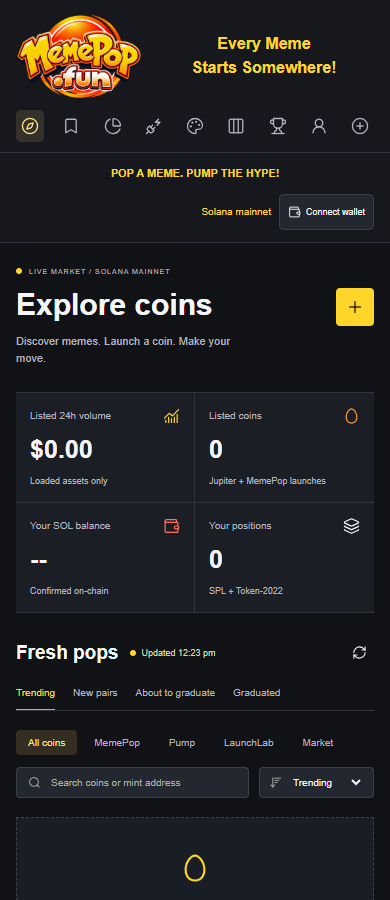
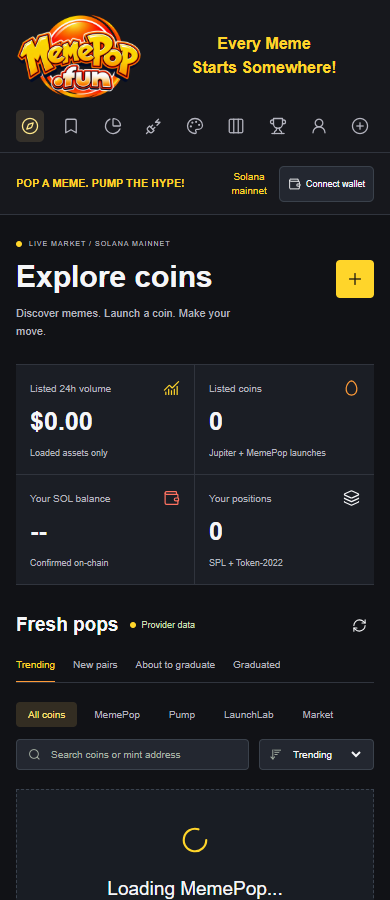
slogan move

diff --git a/src/pump-theme.css b/src/pump-theme.css
@@ -173,8 +173,9 @@
   .brand { width: 126px; flex-shrink: 0; justify-content: flex-start; }
   .brand-logo { width: 126px; }
   .brand-slogan { flex: 1; min-width: 0; margin: 0; font-size: 16px; text-wrap: balance; }
-  header { height: auto; min-height: 62px; gap: 12px; padding-top: 12px; padding-bottom: 12px; flex-wrap: wrap; }
-  .breadcrumb { flex: 1 1 100%; justify-content: center; }
-  .market-slogan { font-size: 11px; }
-  .header-right { margin-left: auto; }
+  header { height: auto; min-height: 62px; gap: 12px; padding-top: 12px; padding-bottom: 12px; flex-wrap: nowrap; }
+  .breadcrumb { flex: 1 1 0; justify-content: flex-start; }
+  .market-slogan { font-size: 11px; text-wrap: balance; }
+  .header-right { margin-left: auto; flex-shrink: 0; }
+  .live-environment { max-width: 44px; white-space: normal; text-align: center; line-height: 1.4; }
 }

diff --git a/tests/ui/live-only.spec.js b/tests/ui/live-only.spec.js
@@ -17,6 +17,10 @@ test('starts live-only and ignores stored demo coins and balances across mobile 
   for (const width of [320, 390, 1440]) {
     await page.setViewportSize({ width, height: 900 });
     expect(await page.evaluate(() => document.documentElement.scrollWidth <= innerWidth)).toBe(true);
+    const slogan = await page.locator('.market-slogan').boundingBox();
+    const controls = await page.locator('.header-right').boundingBox();
+    expect(slogan.x + slogan.width).toBeLessThanOrEqual(controls.x);
+    expect(Math.abs(slogan.y + slogan.height / 2 - controls.y - controls.height / 2)).toBeLessThan(3);
     await page.screenshot({ path: `memepop-live-only-${width}.png` });
   }
   await page.locator('#wallet').click();
